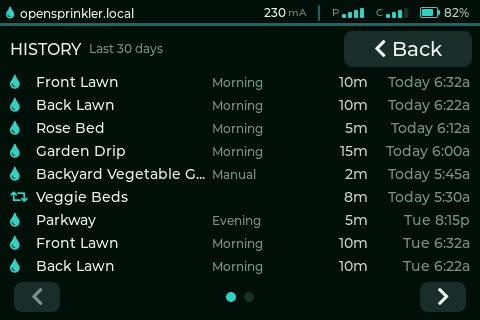
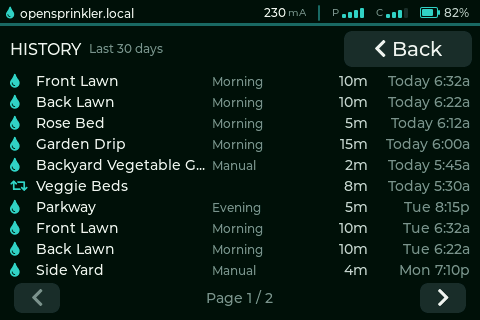
#127 History: numeric "Page N / M" pager + denser rows + RAM-cap stress render
Replace the fixed 6-dot pager (which broke past 6 pages) with a numeric
"Page N / M" label centered between the prev/next arrows, so the log scales to
the dozens of pages a busy 30-day history produces. Removed the dot array and
MAX_HIST_PAGES entirely.

Scaling pieces:
- Rows per page 9 -> 10 (row height 23 -> 21) to cut the page count.
- Document the in-memory retention cap as ui::HISTORY_MAX_RECORDS = 120 (PR2's
  /jl cache will enforce it on the no-PSRAM ESP32). Added a `history-many`
  stress fixture at that cap and render it on page 8 / 12 to exercise the pager
  deep in the list with non-edge arrow states.

Re-rendered all history states (+ new history-many.png). Native 191/191 green.
cyd-35r flash 1470009 -> 1474373 (+4364, +0.22%). include/lv_conf.h
byte-identical; nothing vendored.

Copilot-Session: e9242aba-b524-48da-8bd5-a10cf8c2ef23

diff --git a/lib/ui/panel_screen.cpp b/lib/ui/panel_screen.cpp
@@ -629,19 +629,18 @@ PanelScreen build_panel_screen(lv_obj_t* scr, const Callbacks& cbs) {
     }
 
     // ---- History list panel (#127) - full-width overlay ----------------
-    // Mirrors the programs overlay (same header/Back, same pager) but with
-    // COMPACT single-line rows so ~9 fit per page instead of 4. Each row is:
+    // Mirrors the programs overlay (same header/Back) but with COMPACT
+    // single-line rows so ~10 fit per page instead of 4. Each row is:
     //   [icon]  name  [program tag] .....(flex)..... duration  short-timestamp
-    // No day grouping, no touch scrolling; paging is the pager only. Rows are
-    // denser than v1 (23px vs 29, montserrat_14) to fit two more per page; the
-    // pager arrows are slimmed to match (HIST_ARROW_H) so nothing collides.
+    // No day grouping, no touch scrolling. The pager is a numeric "Page N / M"
+    // label between prev/next arrows (not dots) so it scales to the many pages a
+    // busy 30-day log produces.
     static constexpr int HIST_HDR_H   = 44;
-    static constexpr int HIST_ROW_H   = 23;
+    static constexpr int HIST_ROW_H   = 21;
     static constexpr int HIST_ARROW_H = 30;  // slim pager arrow (vs NAV_BTN_H 36)
     static constexpr int HIST_ROWS_BOTTOM = HIST_HDR_H + MAX_HIST_ROWS * HIST_ROW_H;
     static constexpr int HIST_PAGER_CY = HIST_ROWS_BOTTOM +
                                          (PROG_LIST_H - HIST_ROWS_BOTTOM) / 2;
-    static constexpr int HIST_DOT_Y  = HIST_PAGER_CY - PROG_DOT_H / 2;
 
     ps.pnl_history = lv_obj_create(scr);
     lv_obj_set_size(ps.pnl_history, SCREEN_W, PROG_LIST_H);
@@ -762,21 +761,22 @@ PanelScreen build_panel_screen(lv_obj_t* scr, const Callbacks& cbs) {
         lv_obj_align(ps.hist_row_when[r], LV_ALIGN_RIGHT_MID, -HIST_RP, 0);
     }
 
-    // Pager: dots + arrows, identical geometry to the programs list.
+    // Pager: prev/next arrows with a numeric "Page N / M" label between them
+    // (no dots - the label scales to any page count). Same arrow geometry as the
+    // programs list, just slimmer.
     {
-        for (int d = 0; d < MAX_HIST_PAGES; ++d) {
-            ps.hist_page_dots[d] = lv_obj_create(ps.pnl_history);
-            lv_obj_remove_style_all(ps.hist_page_dots[d]);
-            lv_obj_set_size(ps.hist_page_dots[d], PROG_DOT_W, PROG_DOT_H);
-            lv_obj_set_pos(ps.hist_page_dots[d], 0, HIST_DOT_Y);
-            lv_obj_set_style_radius(ps.hist_page_dots[d], LV_RADIUS_CIRCLE, 0);
-            lv_obj_set_style_bg_opa(ps.hist_page_dots[d], LV_OPA_COVER, 0);
-            lv_obj_set_style_bg_color(ps.hist_page_dots[d], hex_color(CLR_LINE), 0);
-            lv_obj_add_flag(ps.hist_page_dots[d], LV_OBJ_FLAG_HIDDEN);
-        }
-
         static constexpr int ARROW_INSET = 14;
         const int arrow_y = HIST_PAGER_CY - HIST_ARROW_H / 2;
+
+        ps.hist_page_label = lv_label_create(ps.pnl_history);
+        lv_label_set_text(ps.hist_page_label, "");
+        lv_obj_set_style_text_font(ps.hist_page_label, &lv_font_montserrat_14, 0);
+        lv_obj_set_style_text_color(ps.hist_page_label, hex_color(CLR_MUTED), 0);
+        lv_obj_set_style_text_align(ps.hist_page_label, LV_TEXT_ALIGN_CENTER, 0);
+        lv_obj_set_pos(ps.hist_page_label, 0, HIST_PAGER_CY -
+                       lv_font_get_line_height(&lv_font_montserrat_14) / 2);
+        lv_obj_set_width(ps.hist_page_label, SCREEN_W);
+        lv_obj_add_flag(ps.hist_page_label, LV_OBJ_FLAG_HIDDEN);
 
         ps.hist_page_prev = make_btn(ps.pnl_history, LV_SYMBOL_LEFT,
                                      CLR_LINE, CLR_TEXT, &lv_font_montserrat_20, 8);
@@ -1346,20 +1346,13 @@ void update_panel_screen(PanelScreen& ps,
             }
         }
 
-        // Pager: dots + arrows, only when >1 page (same behaviour as programs).
+        // Pager: numeric "Page N / M" label + arrows, only when >1 page.
         const bool need_pager = total_pages > 1;
-        const int dots_w = need_pager
-            ? total_pages * PROG_DOT_W + (total_pages - 1) * PROG_DOT_GAP
-            : 0;
-        const int dots_x0 = (SCREEN_W - dots_w) / 2;
-        for (int d = 0; d < MAX_HIST_PAGES; ++d) {
-            if (!ps.hist_page_dots[d]) continue;
-            obj_set_hidden(ps.hist_page_dots[d], !need_pager || d >= total_pages);
-            if (need_pager && d < total_pages) {
-                lv_obj_set_x(ps.hist_page_dots[d],
-                             dots_x0 + d * (PROG_DOT_W + PROG_DOT_GAP));
-                lv_obj_set_style_bg_color(ps.hist_page_dots[d],
-                    hex_color(d == page ? CLR_TEAL : CLR_LINE), 0);
+        if (ps.hist_page_label) {
+            obj_set_hidden(ps.hist_page_label, !need_pager);
+            if (need_pager) {
+                snprintf(buf, sizeof(buf), "Page %d / %d", page + 1, total_pages);
+                lv_label_set_text(ps.hist_page_label, buf);
             }
         }
         if (ps.hist_page_prev && ps.hist_page_next) {

diff --git a/sim/fixtures.cpp b/sim/fixtures.cpp
@@ -201,6 +201,38 @@ Fixture make_fixture(const std::string& state) {
         f.view.showing_history = true;
         f.view.hist_list_page = 0;
         f.history_entries = {};
+    } else if (state == "history-many") {
+        // Stress case at the in-memory cap: a busy 30-day log (HISTORY_MAX_
+        // RECORDS entries) so the numeric "Page N / M" pager is exercised deep in
+        // the list. Rendered on a middle page to show non-edge arrow states.
+        f.view.showing_history = true;
+        using HE = ui::HistoryEntry;
+        static const char* kNames[] = {
+            "Front Lawn", "Back Lawn", "Rose Bed", "Garden Drip", "Side Yard",
+            "Parkway", "Veggie Beds", "Patio Pots"};
+        static const char* kProgs[] = {"Morning", "Evening", "Weekly Deep"};
+        static const char* kWhen[]  = {
+            "Today 6:32a", "Today 6:00a", "Mon 7:10p", "Mon 6:12a", "Sun 6:00a",
+            "Sat 8:15p", "Jul 28", "Jul 27", "Jul 26", "Jul 25"};
+        static const uint32_t kDur[] = {600, 300, 900, 120, 480, 240};
+        f.history_entries.clear();
+        for (int i = 0; i < ui::HISTORY_MAX_RECORDS; ++i) {
+            HE e;
+            e.name  = kNames[i % 8];
+            e.dur_s = kDur[i % 6];
+            e.when  = kWhen[(i / 4) % 10];
+            if (i % 7 == 5) {            // occasional manual run
+                e.kind = HE::ManualRun;
+            } else if (i % 11 == 9) {   // occasional run-once
+                e.kind = HE::RunOnce;
+            } else {
+                e.kind = HE::ProgramRun;
+                e.tag  = kProgs[i % 3];
+            }
+            f.history_entries.push_back(e);
+        }
+        // 120 entries / 10 rows = 12 pages; show page 8 of 12 (index 7).
+        f.view.hist_list_page = 7;
     } else if (state == "sleep") {
         f.view.sleeping = true;
     }
@@ -213,7 +245,7 @@ const std::vector<std::string>& all_states() {
         "idle-offline", "idle-auth", "run-manual", "run-manual-paused",
         "run-program", "run-program-paused", "programs-list",
         "programs-list-paged", "history-list", "history-list-paged",
-        "history-mixed-events", "history-empty", "sleep"};
+        "history-mixed-events", "history-empty", "history-many", "sleep"};
     return kAll;
 }
 

diff --git a/lib/ui/ui_layout.h b/lib/ui/ui_layout.h
@@ -45,9 +45,10 @@ static constexpr int MAX_PROG_ROWS  = 4;  // program rows per page
 static constexpr int MAX_PROG_PAGES = 6;  // pager dot capacity
 static constexpr int MAX_QROWS      = 9;  // visible program-queue rows
 
-// #127 History overlay: compact single-line rows, ~9 per page (vs 4 programs).
-static constexpr int MAX_HIST_ROWS  = 9;  // history rows per page
-static constexpr int MAX_HIST_PAGES = 6;  // history pager dot capacity
+// #127 History overlay: compact single-line rows, ~10 per page (vs 4 programs).
+// The pager is a numeric "Page N / M" indicator (not dots) so it scales to the
+// dozens of pages a busy 30-day log produces.
+static constexpr int MAX_HIST_ROWS  = 10;  // history rows per page
 
 // #127 History row content geometry (shared by the build + per-frame update so
 // the update can narrow the name column on manual-run rows to fit the tag).

diff --git a/lib/ui/history_view.h b/lib/ui/history_view.h
@@ -44,5 +44,11 @@ struct HistoryView {
     int                 page    = 0;
 };
 
+// In-memory cap on retained /jl records. The classic ESP32 has no PSRAM, so PR2
+// keeps only the most recent HISTORY_MAX_RECORDS log entries (newest-first) and
+// drops the rest. At MAX_HIST_ROWS per page this is the worst-case page count
+// the numeric pager must handle (120 / 10 = 12 pages). Tunable.
+static constexpr int HISTORY_MAX_RECORDS = 120;
+
 }  // namespace ui
 }  // namespace osp

diff --git a/lib/ui/panel_screen.h b/lib/ui/panel_screen.h
@@ -140,7 +140,7 @@ struct PanelScreen {
     lv_obj_t* hist_row_tag[MAX_HIST_ROWS]           = {};
     lv_obj_t* hist_row_dur[MAX_HIST_ROWS]           = {};
     lv_obj_t* hist_row_when[MAX_HIST_ROWS]          = {};
-    lv_obj_t* hist_page_dots[MAX_HIST_PAGES]        = {};
+    lv_obj_t* hist_page_label                       = nullptr;
     lv_obj_t* hist_page_prev                        = nullptr;
     lv_obj_t* hist_page_next                        = nullptr;
 
